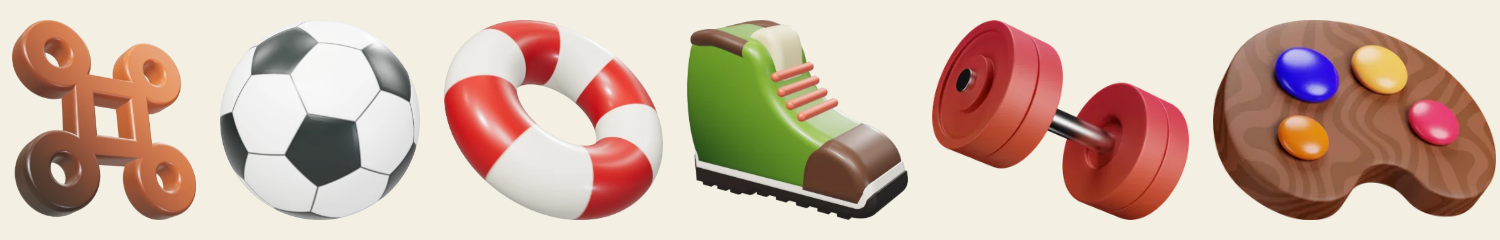
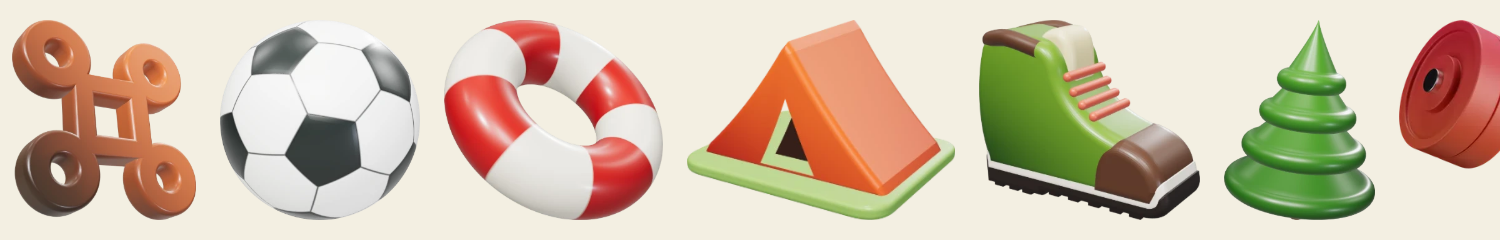
feat(resources): a tent instead of the boot for Friluftsliv
The hiking boot read as boxy: built as one side profile extruded at a
single width, it could not be rounded like a real shoe. Friluftsliv on
the Platser page and in the place form now shows an orange tent on a
rounded patch of grass, which stays clear at the size of the tiles.

The tent is our own icon like the ⌘, the football and the swim ring
(buildTalt in docs/design/egna-ikoner/render.html, public/3dicons/
talt.webp). kanga.webp is removed; the boot and a spruce that was also
tried stay in the render script and as previews, and the README now
lists every builder and its parameters.

Claude-Session: https://claude.ai/code/session_01HwUAYEY1zMFFs7ftMuvXjR

diff --git a/docs/design/egna-ikoner/render.html b/docs/design/egna-ikoner/render.html
@@ -293,7 +293,93 @@ function buildKanga() {
   return group;
 }
 
-const builders = { sevardhet: buildSevardhet, fotboll: buildFotboll, badring: buildBadring, kanga: buildKanga };
+// A spruce (gran) for Friluftsliv: tiers turned on a lathe, each a soft
+// skirt with a rounded rim, on a short trunk.
+function buildGran() {
+  const P = (k, d) => Number(params.get(k) || d);
+  const group = new THREE.Group();
+  const tiers = P('tiers', 4);
+  const tierGeo = (R, h, rim) => {
+    const pts = [new THREE.Vector2(0.001, h)];
+    // the slope, slightly hollow like a spruce's branches
+    for (let i = 1; i <= 16; i++) {
+      const t = i / 16;
+      pts.push(new THREE.Vector2((R - rim) * t, h - (h - rim) * Math.pow(t, 0.85)));
+    }
+    // the rounded rim, out and under
+    for (let i = 1; i <= 12; i++) {
+      const a = Math.PI / 2 - (Math.PI * i) / 12;
+      pts.push(new THREE.Vector2(R - rim + rim * Math.cos(a), rim + rim * Math.sin(a) - rim));
+    }
+    pts.push(new THREE.Vector2((R - rim) * 0.6, -rim * 0.4));
+    pts.push(new THREE.Vector2(0.001, -rim * 0.2));
+    return new THREE.LatheGeometry(pts.reverse(), 96);
+  };
+  const greens = [params.get('from') || '#2f6b3a', params.get('to') || '#8cc25a'];
+  let y = 0.55;
+  for (let i = 0; i < tiers; i++) {
+    const t = i / (tiers - 1);
+    const R = THREE.MathUtils.lerp(1.25, 0.55, t);
+    const h = THREE.MathUtils.lerp(1.15, 0.95, t);
+    const g = tierGeo(R, h, 0.16);
+    g.translate(0, y, 0);
+    group.add(new THREE.Mesh(g, null));
+    y += h * 0.52;
+  }
+  // one gradient over all the tiers, bottom dark to top light
+  const merged = [];
+  group.children.forEach((m) => merged.push(m.geometry));
+  group.clear();
+  const material = new THREE.MeshPhysicalMaterial({ vertexColors: true, roughness: 0.4, clearcoat: 0.5, clearcoatRoughness: 0.3 });
+  merged.forEach((g) => {
+    gradient(g, greens[0], greens[1], new THREE.Vector3(-0.3, 1, 0.4).normalize());
+    group.add(new THREE.Mesh(g, material));
+  });
+  // re-tint so the gradient runs over the whole tree, not per tier
+  const all = new THREE.Box3(); merged.forEach((g) => { g.computeBoundingBox(); all.union(g.boundingBox); });
+  const a = new THREE.Color(greens[0]).convertSRGBToLinear(), b = new THREE.Color(greens[1]).convertSRGBToLinear(), c = new THREE.Color(), v = new THREE.Vector3();
+  const axis = new THREE.Vector3(-0.35, 1, 0.45).normalize();
+  let min = Infinity, max = -Infinity;
+  merged.forEach((g) => { const p = g.attributes.position; for (let i = 0; i < p.count; i++) { const d = v.fromBufferAttribute(p, i).dot(axis); min = Math.min(min, d); max = Math.max(max, d); } });
+  merged.forEach((g) => { const p = g.attributes.position, col = g.attributes.color; for (let i = 0; i < p.count; i++) { const tt = (v.fromBufferAttribute(p, i).dot(axis) - min) / (max - min); c.copy(a).lerp(b, tt); col.setXYZ(i, c.r, c.g, c.b); } col.needsUpdate = true; });
+  const trunk = new THREE.Mesh(new THREE.CapsuleGeometry(0.2, 0.55, 8, 32), new THREE.MeshPhysicalMaterial({ color: '#7a4a2a', roughness: 0.5, clearcoat: 0.3 }));
+  trunk.position.y = 0.35;
+  group.add(trunk);
+  group.rotation.set(P('rx', 0.28), P('ry', 0.4), P('rz', -0.12));
+  return group;
+}
+
+// A tent: an A-frame of two soft panels with a dark door, on a groundsheet
+function buildTalt() {
+  const P = (k, d) => Number(params.get(k) || d);
+  const group = new THREE.Group();
+  const face = new THREE.Shape();
+  face.moveTo(-1.3, 0); face.quadraticCurveTo(-0.55, 0.7, 0, 1.55); face.quadraticCurveTo(0.55, 0.7, 1.3, 0); face.lineTo(-1.3, 0);
+  const door = new THREE.Path();
+  door.moveTo(-0.42, 0.02); door.quadraticCurveTo(-0.18, 0.5, 0, 0.98); door.quadraticCurveTo(0.18, 0.5, 0.42, 0.02); door.lineTo(-0.42, 0.02);
+  face.holes.push(door);
+  const L = P('len', 1.6);
+  const g = new THREE.ExtrudeGeometry(face, { depth: L, bevelEnabled: true, bevelThickness: 0.12, bevelSize: 0.1, bevelSegments: 10, curveSegments: 64 });
+  g.translate(0, 0, -L / 2);
+  gradient(g, params.get('from') || '#c9501f', params.get('to') || '#f5a03c', new THREE.Vector3(0.4, 1, 0.3).normalize());
+  group.add(new THREE.Mesh(g, new THREE.MeshPhysicalMaterial({ vertexColors: true, roughness: 0.4, clearcoat: 0.5, clearcoatRoughness: 0.3 })));
+  // the dark inside seen through the door
+  const inside = new THREE.Shape();
+  inside.moveTo(-0.44, 0.02); inside.quadraticCurveTo(-0.18, 0.5, 0, 1.0); inside.quadraticCurveTo(0.18, 0.5, 0.44, 0.02); inside.lineTo(-0.44, 0.02);
+  const ig = new THREE.ShapeGeometry(inside, 32); ig.translate(0, 0, L / 2 - 0.25);
+  group.add(new THREE.Mesh(ig, new THREE.MeshPhysicalMaterial({ color: '#3a1f12', roughness: 0.8 })));
+  // the groundsheet: a rounded slab of grass
+  const rr = (w, d, r) => { const sh = new THREE.Shape(); sh.moveTo(-w / 2 + r, -d / 2); sh.lineTo(w / 2 - r, -d / 2); sh.quadraticCurveTo(w / 2, -d / 2, w / 2, -d / 2 + r); sh.lineTo(w / 2, d / 2 - r); sh.quadraticCurveTo(w / 2, d / 2, w / 2 - r, d / 2); sh.lineTo(-w / 2 + r, d / 2); sh.quadraticCurveTo(-w / 2, d / 2, -w / 2, d / 2 - r); sh.lineTo(-w / 2, -d / 2 + r); sh.quadraticCurveTo(-w / 2, -d / 2, -w / 2 + r, -d / 2); return sh; };
+  const sg = new THREE.ExtrudeGeometry(rr(3.0, L + 0.9, 0.35), { depth: 0.06, bevelEnabled: true, bevelThickness: 0.06, bevelSize: 0.06, bevelSegments: 6, curveSegments: 24 });
+  sg.rotateX(-Math.PI / 2);
+  const sheet = new THREE.Mesh(sg, new THREE.MeshPhysicalMaterial({ color: params.get('ground') || '#7fae4a', roughness: 0.55, clearcoat: 0.3 }));
+  sheet.position.y = -0.14;
+  group.add(sheet);
+  group.rotation.set(P('rx', 0.32), P('ry', -0.55), P('rz', 0));
+  return group;
+}
+
+const builders = { sevardhet: buildSevardhet, fotboll: buildFotboll, badring: buildBadring, kanga: buildKanga, gran: buildGran, talt: buildTalt };
 const object = (builders[ICON] || buildSevardhet)();
 scene.add(object);
 

diff --git a/imports/ui/pages/resources/resourceKinds.ts b/imports/ui/pages/resources/resourceKinds.ts
@@ -9,7 +9,7 @@ export const RESOURCE_KINDS: { key: string; icon: ThreeDIconName }[] = [
   { key: 'idrottshall', icon: 'gym' },
   { key: 'idrottsplats', icon: 'fotboll' },
   { key: 'bad', icon: 'badring' },
-  { key: 'friluft', icon: 'kanga' },
+  { key: 'friluft', icon: 'talt' },
 ];
 
 export const RESOURCE_KIND_KEYS = RESOURCE_KINDS.map((kind) => kind.key);

diff --git a/imports/ui/generic/ThreeDIcon.tsx b/imports/ui/generic/ThreeDIcon.tsx
@@ -38,7 +38,6 @@ export type ThreeDIconName =
   | 'hash'
   | 'headphone'
   | 'heart'
-  | 'kanga'
   | 'key'
   | 'lab'
   | 'location'
@@ -65,6 +64,7 @@ export type ThreeDIconName =
   | 'sphere'
   | 'star'
   | 'sun'
+  | 'talt'
   | 'target'
   | 'tea-cup'
   | 'text'

diff --git a/docs/design/egna-ikoner/README.md b/docs/design/egna-ikoner/README.md
@@ -1,28 +1,31 @@
-# Our own 3D icons: sevärdhet, fotboll, badring and känga
+# Our own 3D icons: sevärdhet, fotboll, badring and tält
 
-`public/3dicons/sevardhet.webp` (⌘, the Swedish road sign for a
-sevärdhet), `public/3dicons/fotboll.webp` and `public/3dicons/badring.webp`
-(a swim ring, for Bad) and `public/3dicons/kanga.webp` (a hiking boot,
-for Friluftsliv) are not from 3dicons.co. They
-are modelled and rendered with three.js to sit next to that set: the
-dynamic camera angle, soft studio light, a diagonal colour gradient on the
-⌘ like the set's glyphs (`hash`, `at`), trimmed and scaled to 320 px WebP.
-The ⌘ is brown, the colour of Swedish tourist signs.
+Four icons in `public/3dicons/` are not from 3dicons.co: `sevardhet.webp` (⌘,
+the Swedish road sign for a sevärdhet), `fotboll.webp` (Idrottsplatser),
+`badring.webp` (Bad) and `talt.webp` (Friluftsliv). They are modelled
+and rendered with three.js to sit next to that set: the dynamic camera
+angle, soft studio light, diagonal colour gradients like the set's glyphs
+(`hash`, `at`), trimmed and scaled to 320 px WebP. The ⌘ is brown, the
+colour of Swedish tourist signs; the reds match the set's (`gym`, `flag`).
 
-- `render.html`: builds and lights the model (`buildSevardhet`,
-  `buildFotboll`, `buildBadring`, `buildKanga`) and renders it with a transparent background. The ⌘ is
-  its outline with holes (`commandShape`), extruded with a deep round
-  bevel; the ball is a sphere painted with the 12 pentagons and 20 hexagons
-  of a truncated icosahedron, with the seams pressed in by a bump map; the
-  swim ring is a torus in eight red and white fields (`parts`, `tube`);
-  the boot is its side profile extruded with a round bevel, with a
-  tongue, a padded collar (a tube), a toe cap, a midsole, a lugged sole
-  and capsule laces (`from`/`to`, `lace`, `tongue`, `collar`, `rx`/`ry`).
+- `render.html`: builds and lights the model and renders it with a
+  transparent background, one builder per icon:
+  - `buildSevardhet`: the ⌘ outline with holes (`commandShape`),
+    extruded with a deep round bevel (`s`, `r`, `w`, `from`/`to`).
+  - `buildFotboll`: a sphere painted with the 12 pentagons and 20 hexagons
+    of a truncated icosahedron, the seams pressed in by a bump map.
+  - `buildBadring`: a torus in eight red and white fields (`parts`,
+    `tube`, `red`, `rough`, `coat`).
+  - `buildTalt`: an A-frame face with a door, extruded, on a rounded
+    groundsheet (`from`/`to`, `ground`, `len`).
+  - Tried for Friluftsliv and not used: `buildKanga`, a hiking boot (too
+    boxy as an extruded side profile), and `buildGran`, a spruce of
+    lathe-turned tiers.
 - `render.js`: serves the page, renders it in headless Chromium
   (Playwright, software WebGL), writes `<name>-1024.png` (the full
   render, 1536 px despite the name) and `<name>.webp` (trimmed, 320 px).
-- `*-preview.png`, `comparison.png`: the current renders, and the two next
-  to icons from the set.
+- `*-preview.png`, `comparison.png`: the renders, and ours next to an
+  icon from the set (the boot and the spruce are the unused tries).
 
 To re-render (Playwright installed, `require('playwright')` resolvable):
 
@@ -31,8 +34,8 @@ To re-render (Playwright installed, `require('playwright')` resolvable):
     node render.js sevardhet sevardhet
     node render.js fotboll fotboll
     node render.js badring badring
-    node render.js kanga kanga
-    cp sevardhet.webp fotboll.webp badring.webp kanga.webp ../../../public/3dicons/
+    node render.js talt talt
+    cp sevardhet.webp fotboll.webp badring.webp talt.webp ../../../public/3dicons/
 
 Shape and colour can be tried from the command line without editing:
 `node render.js sevardhet test "&s=0.72&r=0.56&w=0.18&from=%235a2a12&to=%23e8a050&env=0.45"`

diff --git a/public/3dicons/README.md b/public/3dicons/README.md
@@ -11,6 +11,6 @@ is at https://3dicons.co. Add more by dropping `<name>.webp` here and using
 modelled and rendered in Blender to match the set. Source, script and
 render pipeline are in `docs/design/trana/`.
 
-`sevardhet.webp` (⌘), `fotboll.webp`, `badring.webp` and `kanga.webp` are not from
+`sevardhet.webp` (⌘), `fotboll.webp`, `badring.webp` and `talt.webp` are not from
 3dicons.co either: they are
 rendered with three.js to match the set; see `docs/design/egna-ikoner/`.
